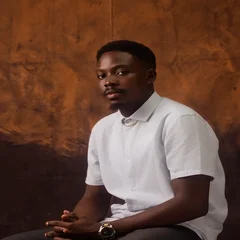
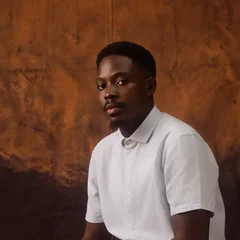
Dark link preview and undistorted portraits

diff --git a/play-ground/index.html b/play-ground/index.html
@@ -10,7 +10,7 @@
 <link rel="icon" href="/img/favicon.svg" type="image/svg+xml">
 <script>if("scrollRestoration"in history)history.scrollRestoration="manual";if(!location.hash)scrollTo(0,0)</script>
 <link rel="preload" href="/fonts/FluxVF.woff2" as="font" type="font/woff2" crossorigin>
-<link rel="stylesheet" href="/styles.css?v=mw45wekd">
+<link rel="stylesheet" href="/styles.css?v=mw462iqw">
 </head><body class="" data-page="playground">
 <a class="skip" href="#main">Skip to content</a>
 <div class="pt" id="pt" aria-hidden="true"><div class="paper"></div></div>
@@ -29,5 +29,5 @@
   <svg class="stk dr" style="left:380px;top:440px" data-r="0" width="76" height="76" viewBox="0 0 76 76"><circle cx="38" cy="38" r="34" fill="#f4b9cb" stroke="#111212" stroke-width="3"/><circle cx="28" cy="32" r="3" fill="#111212"/><circle cx="48" cy="32" r="3" fill="#111212"/><path d="M24 46c8 8 20 8 28 0" fill="none" stroke="#111212" stroke-width="3" stroke-linecap="round"/></svg></div><div class="ruler bottom"></div></main>
 </div>
 <a class="pill" href="mailto:abrahamayoola35@gmail.com"><i></i>Say hello</a>
-<script src="/lenis.min.js?v=mw45wekd"></script><script src="/main.js?v=mw45wekd" defer></script>
+<script src="/lenis.min.js?v=mw462iqw"></script><script src="/main.js?v=mw462iqw" defer></script>
 </body></html>

diff --git a/404.html b/404.html
@@ -10,7 +10,7 @@
 <link rel="icon" href="/img/favicon.svg" type="image/svg+xml">
 <script>if("scrollRestoration"in history)history.scrollRestoration="manual";if(!location.hash)scrollTo(0,0)</script>
 <link rel="preload" href="/fonts/FluxVF.woff2" as="font" type="font/woff2" crossorigin>
-<link rel="stylesheet" href="/styles.css?v=mw45wekd">
+<link rel="stylesheet" href="/styles.css?v=mw462iqw">
 </head><body class="" data-page="404">
 <a class="skip" href="#main">Skip to content</a>
 <div class="pt" id="pt" aria-hidden="true"><div class="paper"></div></div>
@@ -26,5 +26,5 @@
 <main id="main" tabindex="-1"><div class="pg-h"><h1 class="flux t-xl">404</h1><p style="margin-top:30px"><a class="vp mono s" href="/">Back home</a></p></div></main>
 </div>
 <a class="pill" href="mailto:abrahamayoola35@gmail.com"><i></i>Say hello</a>
-<script src="/lenis.min.js?v=mw45wekd"></script><script src="/main.js?v=mw45wekd" defer></script>
+<script src="/lenis.min.js?v=mw462iqw"></script><script src="/main.js?v=mw462iqw" defer></script>
 </body></html>

diff --git a/journal/how-to-stay-steady-as-a-freelance-designer/index.html b/journal/how-to-stay-steady-as-a-freelance-designer/index.html
@@ -10,7 +10,7 @@
 <link rel="icon" href="/img/favicon.svg" type="image/svg+xml">
 <script>if("scrollRestoration"in history)history.scrollRestoration="manual";if(!location.hash)scrollTo(0,0)</script>
 <link rel="preload" href="/fonts/FluxVF.woff2" as="font" type="font/woff2" crossorigin>
-<link rel="stylesheet" href="/styles.css?v=mw45wekd">
+<link rel="stylesheet" href="/styles.css?v=mw462iqw">
 </head><body class="" data-page="journal-how-to-stay-steady-as-a-freelance-designer">
 <a class="skip" href="#main">Skip to content</a>
 <div class="pt" id="pt" aria-hidden="true"><div class="paper"></div></div>
@@ -46,5 +46,5 @@
 </section></main>
 </div>
 <a class="pill" href="mailto:abrahamayoola35@gmail.com"><i></i>Say hello</a>
-<script src="/lenis.min.js?v=mw45wekd"></script><script src="/main.js?v=mw45wekd" defer></script>
+<script src="/lenis.min.js?v=mw462iqw"></script><script src="/main.js?v=mw462iqw" defer></script>
 </body></html>

diff --git a/journal/how-product-decisions-shape-real-growth/index.html b/journal/how-product-decisions-shape-real-growth/index.html
@@ -10,7 +10,7 @@
 <link rel="icon" href="/img/favicon.svg" type="image/svg+xml">
 <script>if("scrollRestoration"in history)history.scrollRestoration="manual";if(!location.hash)scrollTo(0,0)</script>
 <link rel="preload" href="/fonts/FluxVF.woff2" as="font" type="font/woff2" crossorigin>
-<link rel="stylesheet" href="/styles.css?v=mw45wekd">
+<link rel="stylesheet" href="/styles.css?v=mw462iqw">
 </head><body class="" data-page="journal-how-product-decisions-shape-real-growth">
 <a class="skip" href="#main">Skip to content</a>
 <div class="pt" id="pt" aria-hidden="true"><div class="paper"></div></div>
@@ -46,5 +46,5 @@
 </section></main>
 </div>
 <a class="pill" href="mailto:abrahamayoola35@gmail.com"><i></i>Say hello</a>
-<script src="/lenis.min.js?v=mw45wekd"></script><script src="/main.js?v=mw45wekd" defer></script>
+<script src="/lenis.min.js?v=mw462iqw"></script><script src="/main.js?v=mw462iqw" defer></script>
 </body></html>

diff --git a/journal/ai-in-design-without-the-noise/index.html b/journal/ai-in-design-without-the-noise/index.html
@@ -10,7 +10,7 @@
 <link rel="icon" href="/img/favicon.svg" type="image/svg+xml">
 <script>if("scrollRestoration"in history)history.scrollRestoration="manual";if(!location.hash)scrollTo(0,0)</script>
 <link rel="preload" href="/fonts/FluxVF.woff2" as="font" type="font/woff2" crossorigin>
-<link rel="stylesheet" href="/styles.css?v=mw45wekd">
+<link rel="stylesheet" href="/styles.css?v=mw462iqw">
 </head><body class="" data-page="journal-ai-in-design-without-the-noise">
 <a class="skip" href="#main">Skip to content</a>
 <div class="pt" id="pt" aria-hidden="true"><div class="paper"></div></div>
@@ -46,5 +46,5 @@
 </section></main>
 </div>
 <a class="pill" href="mailto:abrahamayoola35@gmail.com"><i></i>Say hello</a>
-<script src="/lenis.min.js?v=mw45wekd"></script><script src="/main.js?v=mw45wekd" defer></script>
+<script src="/lenis.min.js?v=mw462iqw"></script><script src="/main.js?v=mw462iqw" defer></script>
 </body></html>

diff --git a/case-study/index.html b/case-study/index.html
@@ -10,7 +10,7 @@
 <link rel="icon" href="/img/favicon.svg" type="image/svg+xml">
 <script>if("scrollRestoration"in history)history.scrollRestoration="manual";if(!location.hash)scrollTo(0,0)</script>
 <link rel="preload" href="/fonts/FluxVF.woff2" as="font" type="font/woff2" crossorigin>
-<link rel="stylesheet" href="/styles.css?v=mw45wekd">
+<link rel="stylesheet" href="/styles.css?v=mw462iqw">
 </head><body class="" data-page="case-study">
 <a class="skip" href="#main">Skip to content</a>
 <div class="pt" id="pt" aria-hidden="true"><div class="paper"></div></div>
@@ -59,5 +59,5 @@
 </section></main>
 </div>
 <a class="pill" href="mailto:abrahamayoola35@gmail.com"><i></i>Say hello</a>
-<script src="/lenis.min.js?v=mw45wekd"></script><script src="/main.js?v=mw45wekd" defer></script>
+<script src="/lenis.min.js?v=mw462iqw"></script><script src="/main.js?v=mw462iqw" defer></script>
 </body></html>

diff --git a/contact/index.html b/contact/index.html
@@ -10,7 +10,7 @@
 <link rel="icon" href="/img/favicon.svg" type="image/svg+xml">
 <script>if("scrollRestoration"in history)history.scrollRestoration="manual";if(!location.hash)scrollTo(0,0)</script>
 <link rel="preload" href="/fonts/FluxVF.woff2" as="font" type="font/woff2" crossorigin>
-<link rel="stylesheet" href="/styles.css?v=mw45wekd">
+<link rel="stylesheet" href="/styles.css?v=mw462iqw">
 </head><body class="" data-page="contact">
 <a class="skip" href="#main">Skip to content</a>
 <div class="pt" id="pt" aria-hidden="true"><div class="paper"></div></div>
@@ -38,5 +38,5 @@
 </section></main>
 </div>
 <a class="pill" href="mailto:abrahamayoola35@gmail.com"><i></i>Say hello</a>
-<script src="/lenis.min.js?v=mw45wekd"></script><script src="/main.js?v=mw45wekd" defer></script>
+<script src="/lenis.min.js?v=mw462iqw"></script><script src="/main.js?v=mw462iqw" defer></script>
 </body></html>

diff --git a/journal/index.html b/journal/index.html
@@ -10,7 +10,7 @@
 <link rel="icon" href="/img/favicon.svg" type="image/svg+xml">
 <script>if("scrollRestoration"in history)history.scrollRestoration="manual";if(!location.hash)scrollTo(0,0)</script>
 <link rel="preload" href="/fonts/FluxVF.woff2" as="font" type="font/woff2" crossorigin>
-<link rel="stylesheet" href="/styles.css?v=mw45wekd">
+<link rel="stylesheet" href="/styles.css?v=mw462iqw">
 </head><body class="" data-page="journal">
 <a class="skip" href="#main">Skip to content</a>
 <div class="pt" id="pt" aria-hidden="true"><div class="paper"></div></div>
@@ -37,5 +37,5 @@
 </section></main>
 </div>
 <a class="pill" href="mailto:abrahamayoola35@gmail.com"><i></i>Say hello</a>
-<script src="/lenis.min.js?v=mw45wekd"></script><script src="/main.js?v=mw45wekd" defer></script>
+<script src="/lenis.min.js?v=mw462iqw"></script><script src="/main.js?v=mw462iqw" defer></script>
 </body></html>

diff --git a/case-study/lastknown/index.html b/case-study/lastknown/index.html
@@ -10,7 +10,7 @@
 <link rel="icon" href="/img/favicon.svg" type="image/svg+xml">
 <script>if("scrollRestoration"in history)history.scrollRestoration="manual";if(!location.hash)scrollTo(0,0)</script>
 <link rel="preload" href="/fonts/FluxVF.woff2" as="font" type="font/woff2" crossorigin>
-<link rel="stylesheet" href="/styles.css?v=mw45wekd">
+<link rel="stylesheet" href="/styles.css?v=mw462iqw">
 </head><body class="" data-page="case-lastknown">
 <a class="skip" href="#main">Skip to content</a>
 <div class="pt" id="pt" aria-hidden="true"><div class="paper"></div></div>
@@ -58,5 +58,5 @@
 </main>
 </div>
 <a class="pill" href="mailto:abrahamayoola35@gmail.com"><i></i>Say hello</a>
-<script src="/lenis.min.js?v=mw45wekd"></script><script src="/main.js?v=mw45wekd" defer></script>
+<script src="/lenis.min.js?v=mw462iqw"></script><script src="/main.js?v=mw462iqw" defer></script>
 </body></html>

diff --git a/case-study/dwelling/index.html b/case-study/dwelling/index.html
@@ -10,7 +10,7 @@
 <link rel="icon" href="/img/favicon.svg" type="image/svg+xml">
 <script>if("scrollRestoration"in history)history.scrollRestoration="manual";if(!location.hash)scrollTo(0,0)</script>
 <link rel="preload" href="/fonts/FluxVF.woff2" as="font" type="font/woff2" crossorigin>
-<link rel="stylesheet" href="/styles.css?v=mw45wekd">
+<link rel="stylesheet" href="/styles.css?v=mw462iqw">
 </head><body class="" data-page="case-dwelling">
 <a class="skip" href="#main">Skip to content</a>
 <div class="pt" id="pt" aria-hidden="true"><div class="paper"></div></div>
@@ -58,5 +58,5 @@
 </main>
 </div>
 <a class="pill" href="mailto:abrahamayoola35@gmail.com"><i></i>Say hello</a>
-<script src="/lenis.min.js?v=mw45wekd"></script><script src="/main.js?v=mw45wekd" defer></script>
+<script src="/lenis.min.js?v=mw462iqw"></script><script src="/main.js?v=mw462iqw" defer></script>
 </body></html>

diff --git a/case-study/evenfall/index.html b/case-study/evenfall/index.html
@@ -10,7 +10,7 @@
 <link rel="icon" href="/img/favicon.svg" type="image/svg+xml">
 <script>if("scrollRestoration"in history)history.scrollRestoration="manual";if(!location.hash)scrollTo(0,0)</script>
 <link rel="preload" href="/fonts/FluxVF.woff2" as="font" type="font/woff2" crossorigin>
-<link rel="stylesheet" href="/styles.css?v=mw45wekd">
+<link rel="stylesheet" href="/styles.css?v=mw462iqw">
 </head><body class="" data-page="case-evenfall">
 <a class="skip" href="#main">Skip to content</a>
 <div class="pt" id="pt" aria-hidden="true"><div class="paper"></div></div>
@@ -58,5 +58,5 @@
 </main>
 </div>
 <a class="pill" href="mailto:abrahamayoola35@gmail.com"><i></i>Say hello</a>
-<script src="/lenis.min.js?v=mw45wekd"></script><script src="/main.js?v=mw45wekd" defer></script>
+<script src="/lenis.min.js?v=mw462iqw"></script><script src="/main.js?v=mw462iqw" defer></script>
 </body></html>

diff --git a/case-study/avenli/index.html b/case-study/avenli/index.html
@@ -10,7 +10,7 @@
 <link rel="icon" href="/img/favicon.svg" type="image/svg+xml">
 <script>if("scrollRestoration"in history)history.scrollRestoration="manual";if(!location.hash)scrollTo(0,0)</script>
 <link rel="preload" href="/fonts/FluxVF.woff2" as="font" type="font/woff2" crossorigin>
-<link rel="stylesheet" href="/styles.css?v=mw45wekd">
+<link rel="stylesheet" href="/styles.css?v=mw462iqw">
 </head><body class="" data-page="case-avenli">
 <a class="skip" href="#main">Skip to content</a>
 <div class="pt" id="pt" aria-hidden="true"><div class="paper"></div></div>
@@ -58,5 +58,5 @@
 </main>
 </div>
 <a class="pill" href="mailto:abrahamayoola35@gmail.com"><i></i>Say hello</a>
-<script src="/lenis.min.js?v=mw45wekd"></script><script src="/main.js?v=mw45wekd" defer></script>
+<script src="/lenis.min.js?v=mw462iqw"></script><script src="/main.js?v=mw462iqw" defer></script>
 </body></html>
